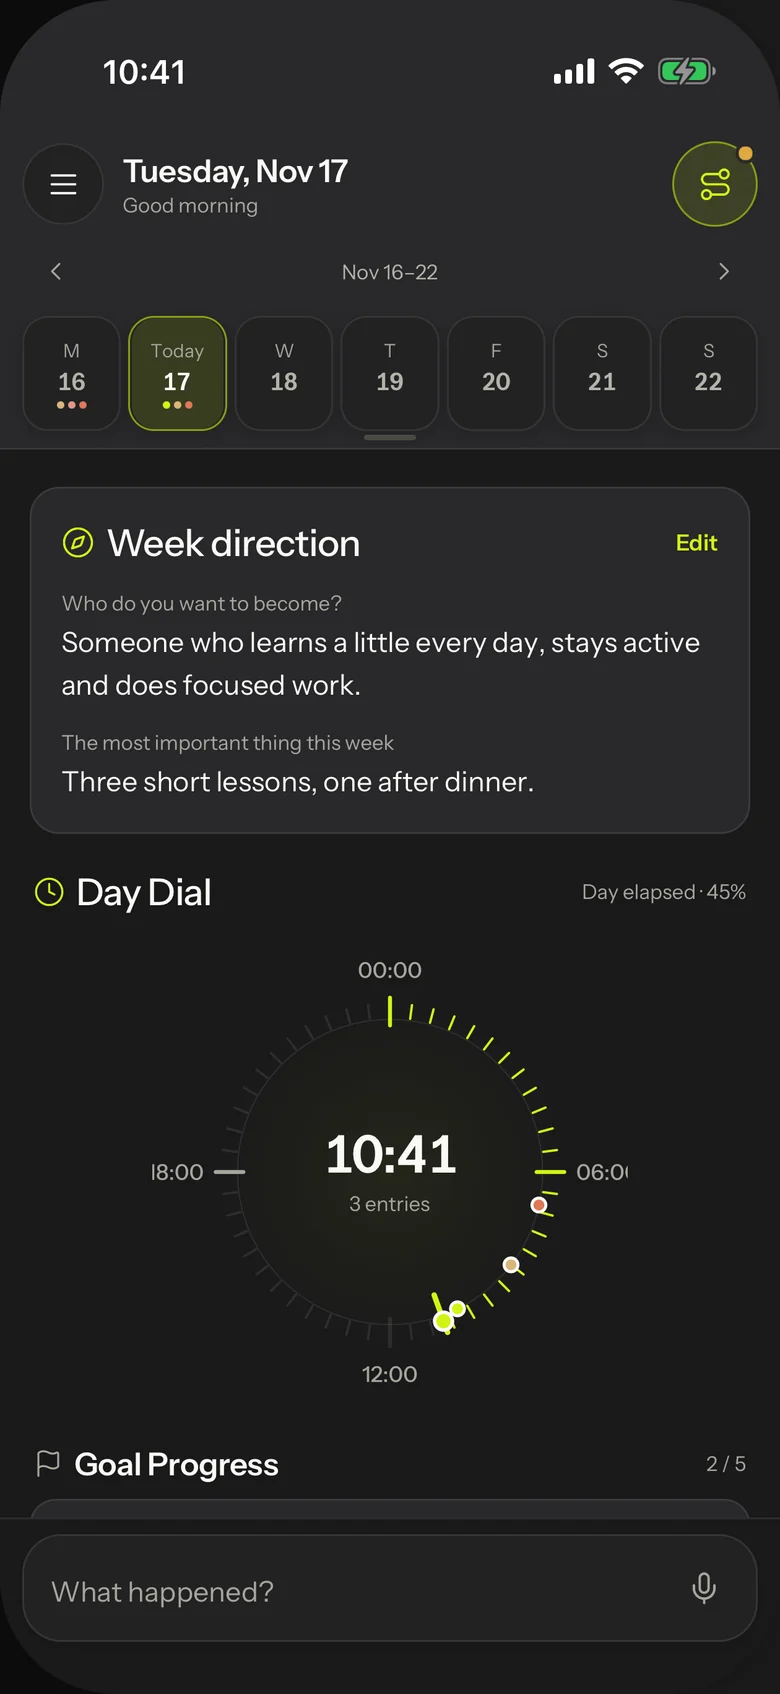
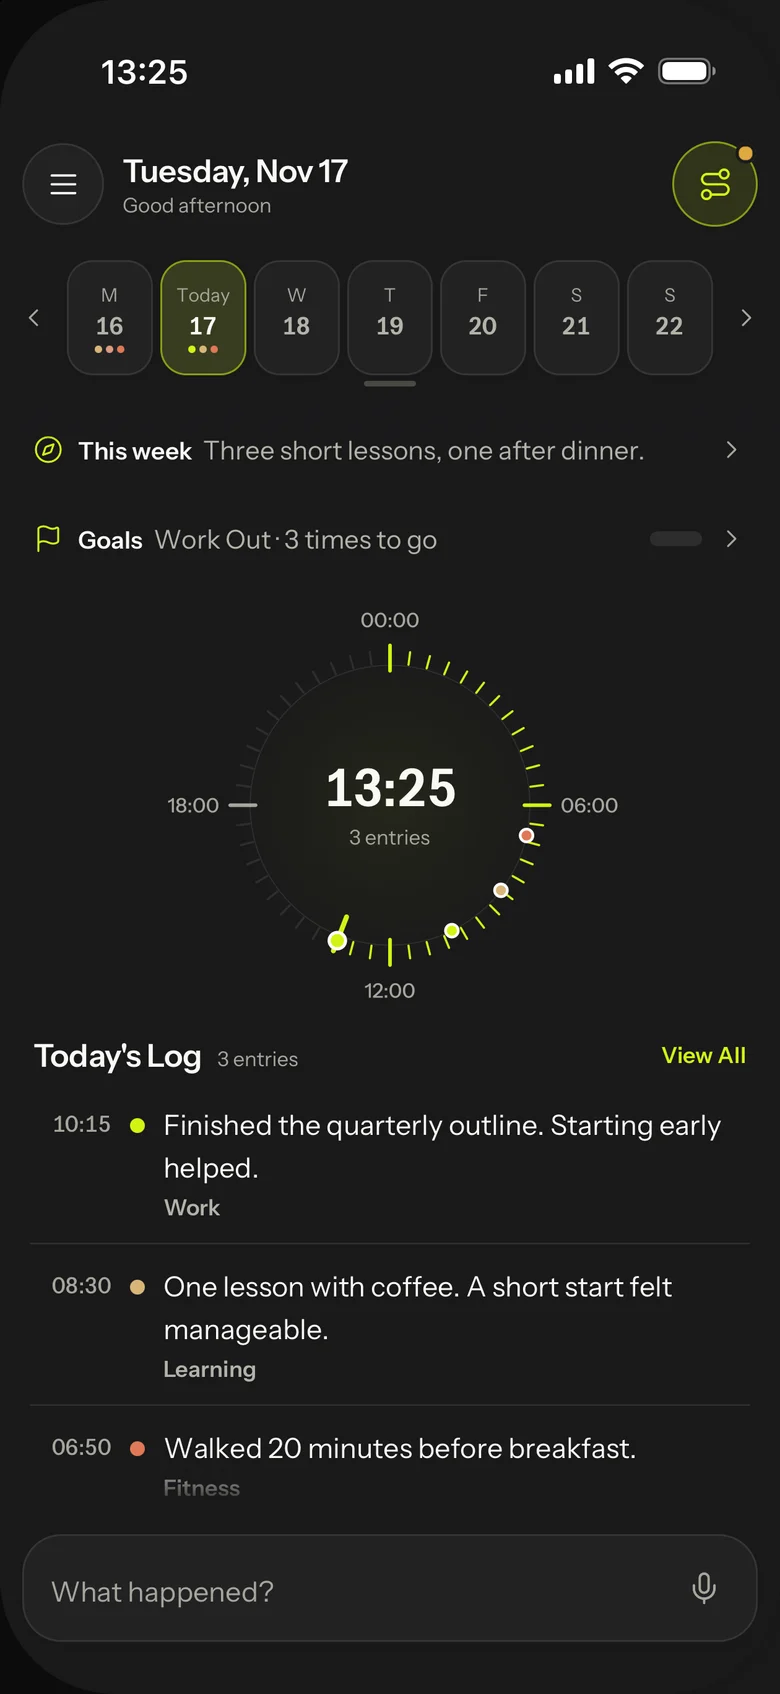
feat(gyrolog): retake the This week screenshot after the redesign

diff --git a/src/pages/gyrolog.tsx b/src/pages/gyrolog.tsx
@@ -50,7 +50,7 @@ export default function GyrologPage(): ReactNode {
                   src="/img/gyrolog/this-week-dark.webp"
                   width={780}
                   height={1694}
-                  alt="Gyrolog's This week screen on iPhone: Tuesday in the week strip, the Week direction card, the Day Dial at 10:41 with three entries, and the capture bar."
+                  alt="Gyrolog's This week screen on iPhone: Tuesday in the week strip, the week's direction and Goals lines, the Day Dial at 13:25 with three entries, and today's log under it."
                 />
               </div>
               <figcaption>This week on iPhone, shown with sample entries.</figcaption>
